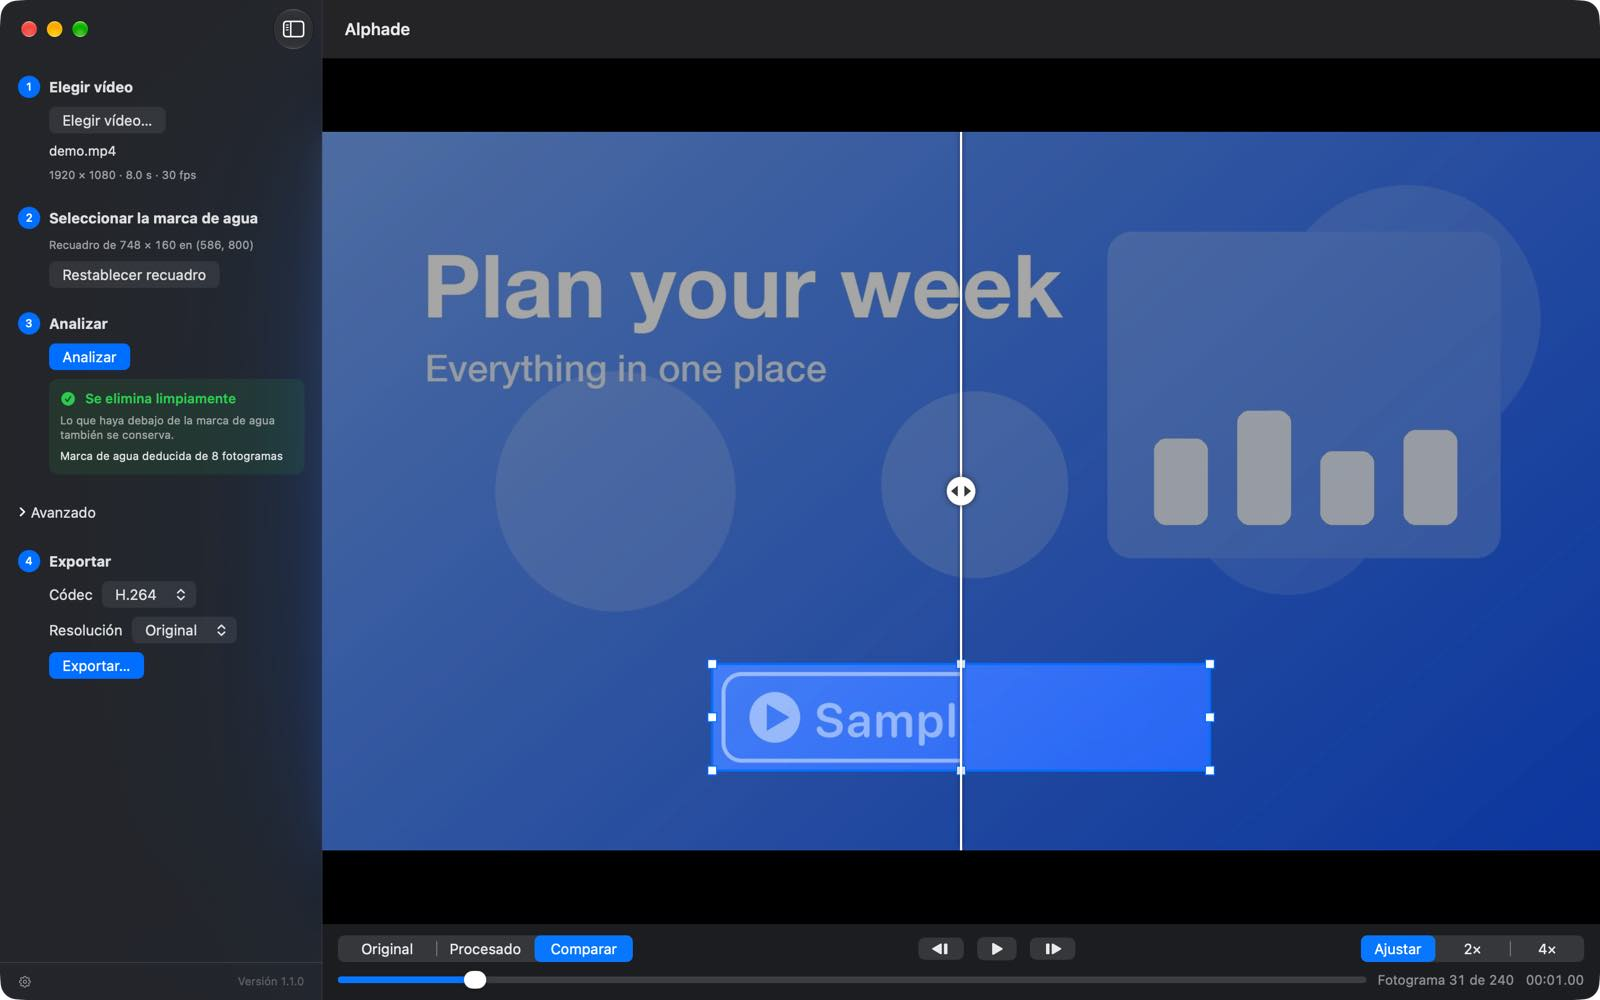
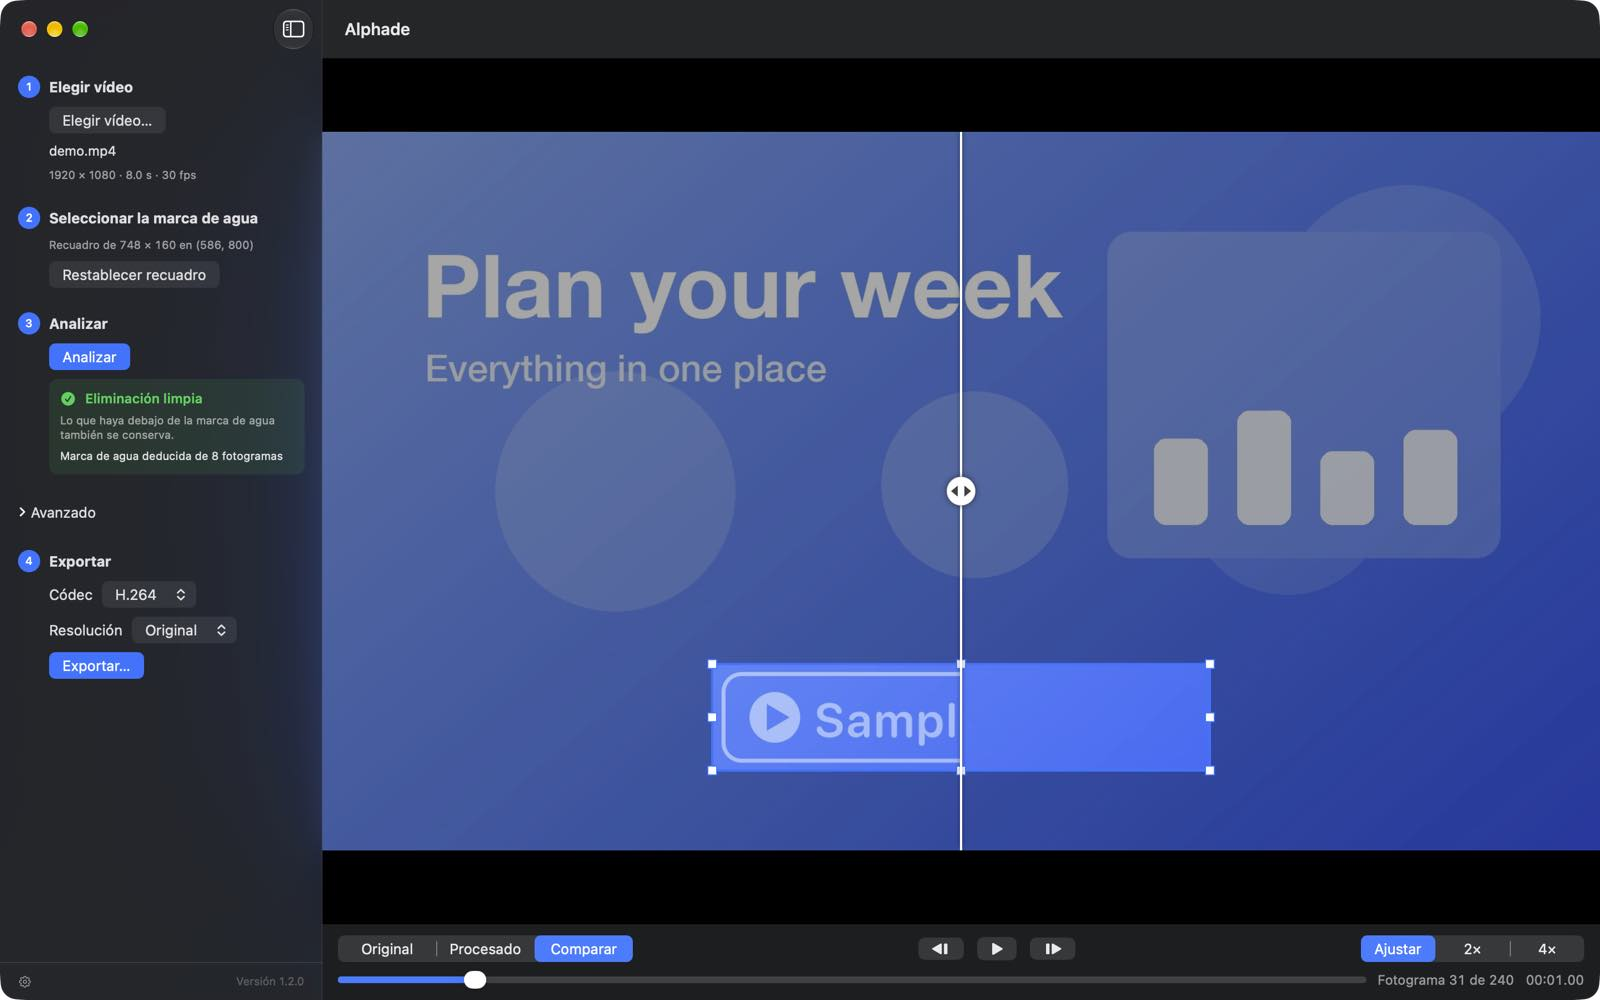
fix: Alphade's Spanish pages use the analysis names of 1.2.0
Alphade 1.2.0 renames the three analysis results in Spanish: «Eliminación limpia», «Eliminación con relleno» and «Borroso tras eliminar». The Spanish support page takes the new names, the promo page's step-analyze and app-compare shots are retaken in 1.2.0, and the shot's alt follows the app's line «Marca de agua deducida de 8 fotogramas». Sitemap dates for both pages move to today.

Claude-Session: https://claude.ai/code/session_01XXRQkF8HAayBXZmr7T5ycL

diff --git a/alphade/support/es/index.html b/alphade/support/es/index.html
@@ -40,7 +40,7 @@
   <ol>
     <li>Abre un vídeo: haz clic en «Elegir vídeo…» en la barra lateral o arrastra un vídeo a la ventana.</li>
     <li>Arrastra un recuadro alrededor de la marca de agua en la imagen. Arrastra los tiradores para ajustarlo.</li>
-    <li>Haz clic en «Analizar». El resultado indica «Se elimina limpiamente», «Se elimina rellenando» o «Quedará borroso».</li>
+    <li>Haz clic en «Analizar». El resultado indica «Eliminación limpia», «Eliminación con relleno» o «Borroso tras eliminar».</li>
     <li>Revisa el resultado: cambia entre «Original», «Procesado» y «Comparar» (⌘1 a ⌘3), mantén pulsada la tecla O para ver el original, avanza fotograma a fotograma con las flechas, pulsa la barra espaciadora para reproducir desde el fotograma actual y, con el recuadro dibujado, amplía a 2× o 4×.</li>
     <li>Elige el códec (H.264 o HEVC) y la resolución, haz clic en «Exportar…» y elige dónde guardar el vídeo.</li>
   </ol>
@@ -59,11 +59,11 @@
   <h3>¿Qué marcas de agua puede quitar Alphade?</h3>
   <p>Marcas de agua, logotipos y textos semitransparentes que se quedan en el mismo sitio durante todo el vídeo. Los logotipos opacos se pueden quitar rellenando su zona con el fondo, si el fondo que tienen detrás es sencillo, como un color liso, un degradado o una diapositiva. No se admiten las marcas de agua que se mueven ni las opacas sobre fondos con mucho detalle o sobre escenas reales.</p>
 
-  <h3>¿Qué significan «Se elimina limpiamente», «Se elimina rellenando» y «Quedará borroso»?</h3>
+  <h3>¿Qué significan «Eliminación limpia», «Eliminación con relleno» y «Borroso tras eliminar»?</h3>
   <ul>
-    <li><strong>Se elimina limpiamente</strong>: Alphade ha averiguado cómo se superpuso la marca de agua, así que lo que haya debajo también se conserva.</li>
-    <li><strong>Se elimina rellenando</strong>: la zona de la marca de agua se rellena con el fondo que la rodea. Lo que haya debajo se pierde; sobre un fondo liso no se nota.</li>
-    <li><strong>Quedará borroso</strong>: hay que rellenar una zona cuyo fondo tiene mucho detalle, así que el relleno se verá borroso.</li>
+    <li><strong>Eliminación limpia</strong>: Alphade ha averiguado cómo se superpuso la marca de agua, así que lo que haya debajo también se conserva.</li>
+    <li><strong>Eliminación con relleno</strong>: la zona de la marca de agua se rellena con el fondo que la rodea. Lo que haya debajo se pierde; sobre un fondo liso no se nota.</li>
+    <li><strong>Borroso tras eliminar</strong>: hay que rellenar una zona cuyo fondo tiene mucho detalle, así que el relleno se verá borroso.</li>
   </ul>
 
   <h3>¿Por qué no se abre mi vídeo?</h3>

diff --git a/alphade/es/index.html b/alphade/es/index.html
@@ -100,7 +100,7 @@
           </div>
         </li>
         <li>
-          <img src="../media/es/step-analyze.jpg" width="570" height="300" loading="lazy" alt="Resultado del análisis de Alphade: «Se elimina limpiamente», marca de agua calculada a partir de 8 fotogramas.">
+          <img src="../media/es/step-analyze.jpg" width="570" height="300" loading="lazy" alt="Resultado del análisis de Alphade: «Eliminación limpia», marca de agua deducida de 8 fotogramas.">
           <div class="text">
             <h3>Analizar</h3>
             <p>Alphade estudia el vídeo completo y te dice hasta qué punto puede restaurarlo.</p>
